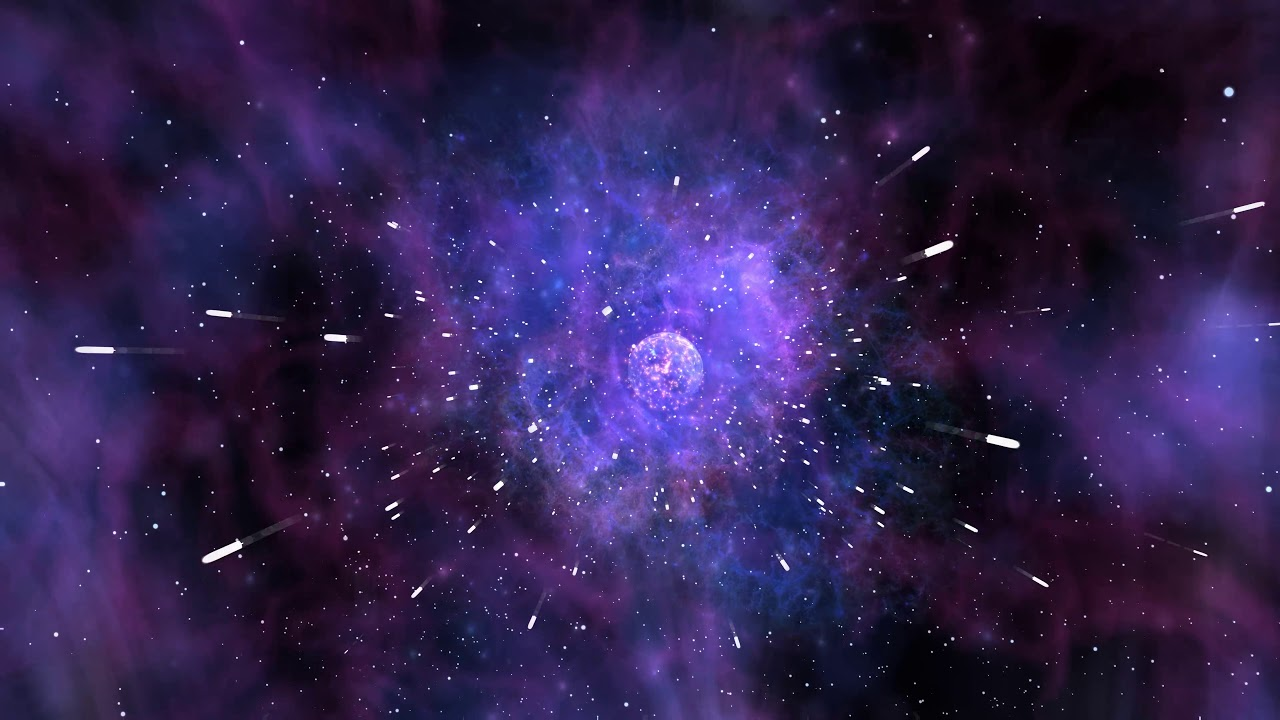
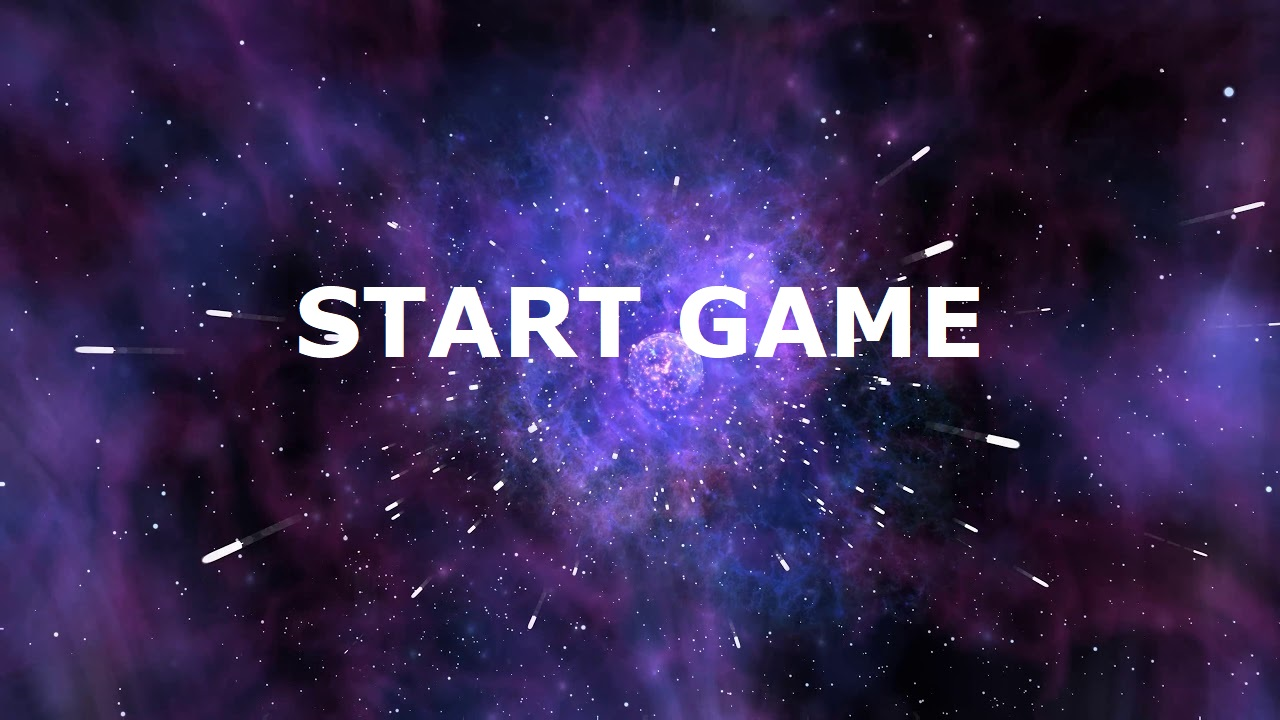
Add files via upload

Changed region(s): [[0.2188, 0.3972, 0.5, 0.5194], [0.5312, 0.3972, 0.7812, 0.5194]]

diff --git a/Jogo/script.js b/Jogo/script.js
@@ -5,20 +5,40 @@ let texto = " ";
 let minutos = "";
 let segundos = "";
 let tempoDeSessao = 0;
-let jogoEmAndamento = false;
+let jogoEmAndamento = false
+let restart = false;
+let mensagem = ""
 
 
 function partida(){
+	texto = "Jogador: " + jogador.getNome() + "| Level: | Tempo: :";
 	jogador.setNome(window.prompt("Qual seu nome?"));
 	jogador.setLevel(1);
 	jogador.setPontuacao(0);
-	jogador.setVelocidadeMax(5);
+	jogador.setVelocidadeMax(3);
 	jogoEmAndamento = true;
-	setInterval(timer, 1000);
-	setInterval(passaDeLevel, 15000);
-	setInterval(criarInimigos, 1000);
-	setInterval(criarMunicao, 4000);
-	setInterval(renderiza, 15);
+	tempoDeSessao = 0;
+	if(restart){
+		removerTodasBalas();
+		removerTodosInimigos();
+		removerTodasMunicoes();
+		clearInterval(contaTempo);
+		clearInterval(levelUp);
+		clearInterval(intervalInimigos);
+		clearInterval(intervalMunicao);
+		clearInterval(renderGame);
+		clearInterval(trilha);
+	}
+	let contaTempo = setInterval(timer, 1000);
+	let levelUp = setInterval(passaDeLevel, 15000);
+	let intervalInimigos = setInterval(criarInimigos, 1000);
+	let intervalMunicao = setInterval(criarMunicao, 5000);
+	let renderGame = setInterval(renderiza, 15);
+	TocarSom();
+	let trilha = setInterval(TocarSom, 32000);
+}
+
+function TocarSom(){
 	let soundtrack = new Audio('spacesound.wav');
 	soundtrack.play();
 }
@@ -30,13 +50,19 @@ function timer() {
 	minutos = parseInt(tempoDeSessao / 60);
 	minutos =  minutos < 10 ? "0" + minutos : minutos;
 	segundos = (tempoDeSessao % 60) < 10 ? "0" + tempoDeSessao % 60 : tempoDeSessao % 60;
-	texto = "Jogador: "+ jogador.getNome() + " | Level: "+ jogador.getLevel() + " | Tempo: " + minutos + ":" + segundos + " | Pontuacao: " + jogador.getPontuacao()+ " " + "| Municao: " + jogador.getMunicao();
+	texto = "Jogador: "+ jogador.getNome() + " | Level: "+ jogador.getLevel() + " | Tempo: " + minutos + ":" + segundos;
 }
 
 
 function jogadorVenceu(){
-	window.alert("Voce venceu! Parabens!");
+	window.alert("FIM DE JOGO!")
+	mensagem = "Voce venceu! Parabens!";
 	jogoEmAndamento = false;
+	restart = true;
+	telaInicial();
+	$("#tela").on("click", function(event) {
+		novoJogo();
+	})
 }
 
 //Passa o jogador para o proximo level
@@ -45,7 +71,7 @@ function passaDeLevel(){
 		jogador.setLevel(jogador.getLevel()+1);
 		jogador.setPontuacao(jogador.getPontuacao()+(1000*jogador.getLevel()));
 		jogador.setVelocidadeMax(jogador.getVelocidadeMax()*1.1);
-		velBG += 0.6
+		velBG += 0.6;
 	}
 }
 
@@ -177,7 +203,7 @@ class municao{
 			this.direcao = randomChoice(paraNor);
 			break;
 		}
-		this.qt = 50;
+		this.qt = 30;
 	}
 	getQt(){
 		return this.qt;
@@ -427,8 +453,17 @@ function colisaoPlayer(item, indice, inimigos){
 			height: 200
 		});
 		jogoEmAndamento = false;
-		setTimeout(function() { window.alert("Voce colidiu e perdeu! Voce fez " + jogador.getPontuacao() + " pontos. Tente novamente."); }, 1000);
+		setTimeout(gameOver, 1000);
 	}
+}
+
+function gameOver(){
+	mensagem = "Voce colidiu e perdeu! Voce fez " + jogador.getPontuacao(); + " pontos. Tente novamente.";
+	telaInicial();
+	restart = true;
+	$("#tela").on("click", function(event) {
+		novoJogo();
+	})
 }
 
 // Verifica se o jogador colidiu com algum inimigo
@@ -452,7 +487,7 @@ function renderiza(){
 		renderizaMunicoes();
 		renderizaBalas();
 		renderizaTempo();
-		//renderizaPlacar();
+		renderizaPlacar();
 		jogadorColidiu();
 		municaoColidiu();
 		balaColidiu();
@@ -504,13 +539,25 @@ function renderizaCanvas(){
 function  renderizaTempo(){
 	$("#placar").drawText({
 	fillStyle: "#FFF",
-	x: ($("#game").width()/2), 
+	x: ($("#game").width()/4)+40, 
 	y: 20,
 	fontSize: 20,
 	fontFamily: 'Arial',
 	text: texto
 	});
 }
+
+function renderizaPlacar(){
+	$("#placar").drawText({
+		fillStyle: "#FFF",
+		x: (($("#game").width()/2)+($("#game").width()/4)+40),
+		y: 20,
+		fontSize: 20,
+		fontFamily: 'Arial',
+		text: "Pontuacao: " + jogador.getPontuacao()+ " " + "| Municao: " + jogador.getMunicao()
+	});
+}
+
 
 // Renderiza o canvas
 function renderizaCanvas2(){
@@ -608,7 +655,7 @@ function removeBala(item, indice, balas){
 }
 
 // Remove todos os inimigos do vetor de inimigos
-function removerMunicao(item, indice, municoes){
+function removeMunicao(item, indice, municoes){
 	municoes.splice(indice, 1);
 }
 
@@ -663,60 +710,48 @@ function removerMunicoesForaDaTela(){
 	municoes.forEach(removeMunicaoForaDaTela);
 }
 
-// TENTATIVA DE TELA DE INICIO
-/*
+
 function telaInicial(){
+	$("#tela").show();
+	$("#tela").css("cursor", "pointer");
 	$("#tela").drawImage({
 		source: "paginaBG.jpg",
 		x: 400,
 		y: 300,
-		width: 1000,
-		height: 600
+		width: 1100,
+		height: 650
+	});
+	$("#tela").drawText({
+		fillStyle: "#FFF",
+		x: ($("#game").width()/2), 
+		y: 110,
+		fontSize: 20,
+		fontFamily: 'Arial',
+		text: mensagem
 	});
 }
-
-$(document).ready(function() {
-	telaInicial();
-	
-	$("#tela").on("click",function(){
-		if(!jogoEmAndamento)
-			novoJogo();
-		jogoEmAndamento = true;
-	});
-	
-});
 
 function novoJogo(){
 	$("#tela").clearCanvas();
-	$("#game").css("cursor", "none");
-	$("#game").on("mousemove", function(event) {
-		jogador.setX(event.pageX - ($("body").width() - $("#game").width())/2);
-		jogador.setY(event.pageY);
-	});
-	$("#game").on("click", function(event) {
-		atirar();
-	});
+	$("#tela").hide();
+	// Remove todas as balas
 	jogador = new player();
-	texto = "Jogador: " + jogador.getNome() + "| Level: | Tempo: :";
 	partida();
 }
-*/
 
 $(document).ready(function() {
 	$("#game").css("cursor", "none");
 	$("#game").on("mousemove", function(event) {
 		jogador.setX(event.pageX - ($("body").width() - $("canvas").width())/2);
-		jogador.setY(event.pageY);
+		jogador.setY(event.pageY-40);
 	});
-	$("#game").on("click", function(event) {
-		atirar();
+	$("#game").on({
+		click: function() {atirar();}
 	});
-	jogador = new player();
-	//texto = "Jogador: " + jogador.getNome() + "| Level: | Tempo: :";
-	/*if(!jogoEmAndamento){
-		$("canvas").on("click", function(event) {
-			partida();
+	if(!jogoEmAndamento){
+		telaInicial();
+		$("#tela").on("click", function(event) {
+			novoJogo();
 		})
-	};*/ // Clicar para iniciar ou começar de novo
-	partida();
+	};
 });

diff --git a/Jogo/index.html b/Jogo/index.html
@@ -14,6 +14,9 @@
 			.placar{
 				text-align: center;
 			}
+			#tela{
+				position: absolute;
+			}
 		</style>
 	</head>
 	<body>
@@ -21,6 +24,7 @@
 			<canvas id="placar" width="800" height="40"> </canvas>
 		</div>
 		<div class="container">
+			<canvas id="tela" width="800" height="650"> </canvas>
 			<canvas id="game" width="800" height="600"> </canvas>
 		</div>
 
